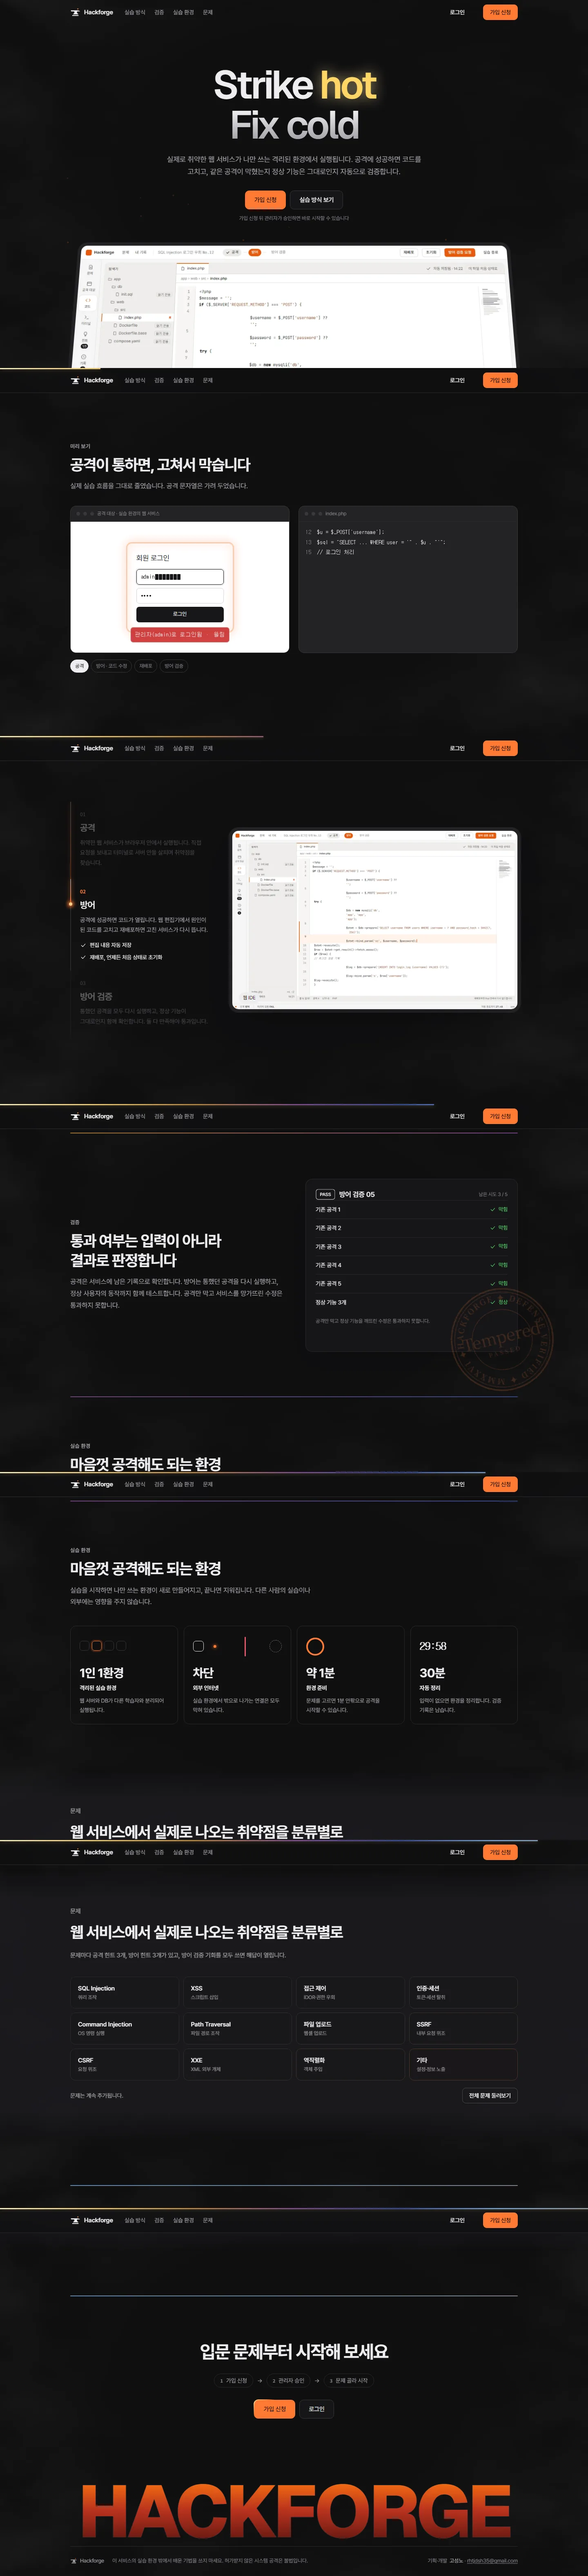
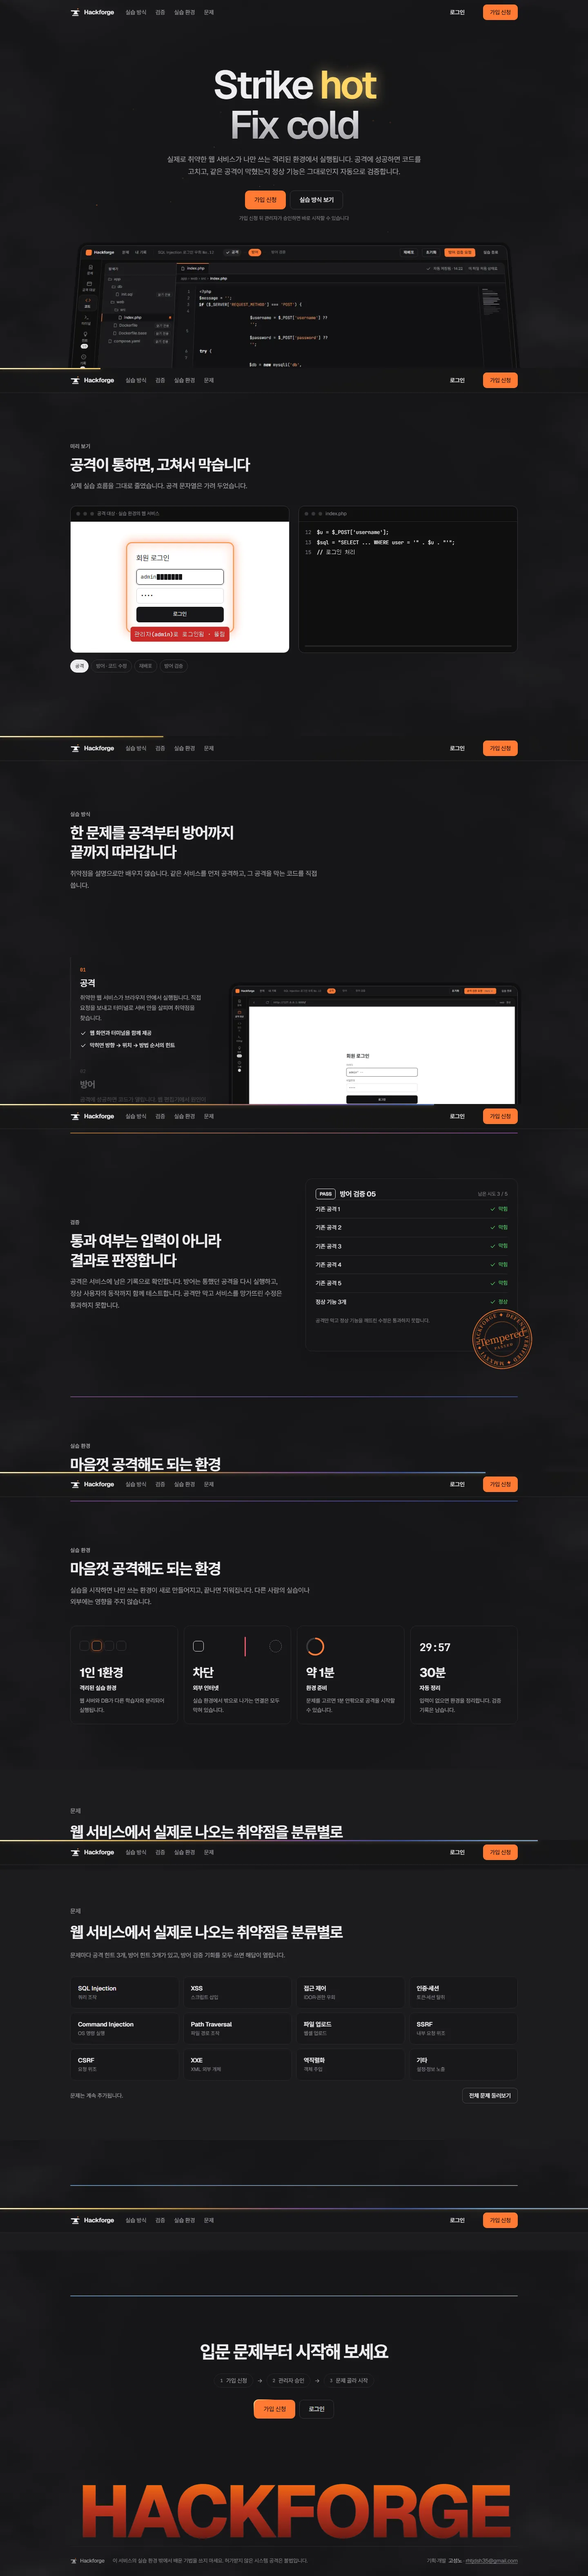
feat: 소개 화면을 확정 다크 시안대로(다크만, Geist + Pretendard)
시안 바탕(--bg)을 앱 페이지 바탕에 잘못 이어서 한 단계 어두웠고, 라이트 연기 결과 반투명 타일이 시안과 달랐다.

diff --git a/src/pages/landing.css b/src/pages/landing.css
@@ -12,10 +12,17 @@
   --t3: var(--subtle-foreground);
   --hair: var(--border);
   --hair2: var(--input);
-  --s1: var(--muted);
+  --s1: var(--background);
   --s2: var(--muted);
   --acc: var(--primary);
-  --bg: var(--background);
+  --bg: var(--card);
+  /* 소개 화면은 다크만(뿌리에 .dark를 붙여 앱 다크 토큰을 쓴다). 바탕은 시안의 --bg */
+  isolation: isolate;
+  min-height: 100dvh;
+  background: var(--bg);
+  color-scheme: dark;
+  /* 영문은 헤드라인과 같은 Geist, 한글은 앱 글꼴(Pretendard). 2026-11-26 후보 6개 비교 뒤 결정 */
+  font-family: var(--font-display);
   font-size: 15px;
   line-height: 1.6;
   letter-spacing: -0.01em;
@@ -197,7 +204,9 @@
   font-size: 13px;
 }
 .lp .row code {
-  font: 12.5px 'JetBrains Mono';
+  font:
+    12.5px 'JetBrains Mono Variable',
+    monospace;
   background: var(--s1);
   padding: 2px 7px;
   border-radius: 5px;
@@ -262,7 +271,9 @@
   grid-row: 1/3;
   grid-column: 2;
   align-self: center;
-  font: 500 20px 'JetBrains Mono';
+  font:
+    500 20px 'JetBrains Mono Variable',
+    monospace;
   font-style: normal;
   color: var(--primary-foreground);
 }
@@ -295,7 +306,9 @@
   border-radius: 999px;
 }
 .lp .flow span b {
-  font: 600 11px 'JetBrains Mono';
+  font:
+    600 11px 'JetBrains Mono Variable',
+    monospace;
   color: var(--t3);
 }
 .lp .smog {
@@ -552,7 +565,7 @@
   align-items: center;
   padding: 0 10px;
   font:
-    13px 'JetBrains Mono',
+    13px 'JetBrains Mono Variable',
     monospace;
   margin-bottom: 8px;
   gap: 1px;
@@ -648,7 +661,7 @@
 .lp .code {
   flex: 1;
   font:
-    12.5px/1.95 'JetBrains Mono',
+    12.5px/1.95 'JetBrains Mono Variable',
     monospace;
   padding: 14px 0;
 }
@@ -726,7 +739,7 @@
 .lp .stage-tag span.on {
   background: var(--t1);
   border-color: var(--t1);
-  color: var(--background);
+  color: var(--bg);
 }
 .lp .wm {
   position: relative;
@@ -774,7 +787,7 @@
     backdrop-filter 0.3s;
 }
 .lp .topbar.scrolled {
-  background: color-mix(in srgb, var(--background) 72%, transparent);
+  background: color-mix(in srgb, var(--bg) 72%, transparent);
   -webkit-backdrop-filter: blur(12px);
   backdrop-filter: blur(12px);
   border-color: var(--hair);
@@ -1123,7 +1136,7 @@
   left: 0;
   top: 10px;
   font:
-    600 26px 'JetBrains Mono',
+    600 26px 'JetBrains Mono Variable',
     monospace;
   letter-spacing: -0.02em;
 }
@@ -1431,7 +1444,9 @@
   background: var(--t1);
 }
 .lp .stp .n {
-  font: 500 12px 'JetBrains Mono';
+  font:
+    500 12px 'JetBrains Mono Variable',
+    monospace;
   color: var(--t3);
 }
 .lp .stp h3 {
@@ -1798,7 +1813,7 @@
   font-family: var(--font-display), sans-serif;
 }
 .lp .shot::after {
-  background: linear-gradient(transparent, var(--background));
+  background: linear-gradient(transparent, var(--bg));
 }
 /* 제품 화면: 시안의 iframe 대신 확정 캡처(1440×900)의 위쪽을 보인다 */
 .lp .shot img,
@@ -1820,28 +1835,16 @@
   background: var(--band);
   color: var(--band-foreground);
 }
-.dark .lp .dark-band {
-  background: color-mix(in srgb, var(--band) 80%, transparent);
-  -webkit-mask-image: linear-gradient(transparent, #000 70px, #000 calc(100% - 70px), transparent);
-  mask-image: linear-gradient(transparent, #000 70px, #000 calc(100% - 70px), transparent);
-}
 .lp .dark-band .k,
 .lp .dark-band p.d,
 .lp .dark-band .more {
-  color: color-mix(in srgb, var(--band-foreground) 62%, transparent);
+  color: var(--muted-foreground);
 }
 .lp .h2d {
   font-size: 38px;
   font-weight: 700;
   letter-spacing: -0.035em;
   margin: 10px 0 14px;
-}
-.lp .ct {
-  border-color: color-mix(in srgb, var(--band-foreground) 12%, transparent);
-  background: color-mix(in srgb, var(--band-foreground) 4%, transparent);
-}
-.lp .ct span {
-  color: color-mix(in srgb, var(--band-foreground) 52%, transparent);
 }
 .lp .more {
   display: flex;
@@ -1877,10 +1880,6 @@
 .lp .credit a {
   text-decoration: underline;
   text-underline-offset: 2px;
-}
-html:not(.dark) .lp .smog.s2 {
-  mix-blend-mode: multiply;
-  opacity: 0.08;
 }
 /* 스크립트가 돌지 않으면(효과 실패) 처음 숨겨 둔 것도 다 보인다 */
 .lp:not(.js) .rv,

diff --git a/src/pages/landing-page.tsx b/src/pages/landing-page.tsx
@@ -5,31 +5,22 @@ import { MenuIcon } from 'lucide-react'
 import { useEffect, useRef, type CSSProperties } from 'react'
 import { Link } from 'react-router'
 
-import labCodeDark from '../../design/screens/lab-code-dark.webp'
-import labCodeLight from '../../design/screens/lab-code-light.webp'
-import labRecordsDark from '../../design/screens/lab-records-dark.webp'
-import labRecordsLight from '../../design/screens/lab-records-light.webp'
-import labTargetDark from '../../design/screens/lab-target-dark.webp'
-import labTargetLight from '../../design/screens/lab-target-light.webp'
+import labCode from '../../design/screens/lab-code-dark.webp'
+import labRecords from '../../design/screens/lab-records-dark.webp'
+import labTarget from '../../design/screens/lab-target-dark.webp'
 import { LogoMark } from '@/components/logo'
 import { startLandingEffects } from '@/pages/landing-effects'
 
-/** 제품 화면은 확정 캡처(design/screens)를 테마에 맞춰 보여 준다(시안은 iframe) */
+/** 제품 화면은 확정 캡처(design/screens)의 다크 화면(시안은 iframe) */
 const SCREENS = {
-  code: { light: labCodeLight, dark: labCodeDark, alt: '방어 단계의 코드 편집기 화면' },
-  target: { light: labTargetLight, dark: labTargetDark, alt: '공격 대상 화면' },
-  records: { light: labRecordsLight, dark: labRecordsDark, alt: '방어 검증 결과 기록 화면' },
+  code: { src: labCode, alt: '방어 단계의 코드 편집기 화면' },
+  target: { src: labTarget, alt: '공격 대상 화면' },
+  records: { src: labRecords, alt: '방어 검증 결과 기록 화면' },
 }
 
 function Screen({ name, eager }: { name: keyof typeof SCREENS; eager?: boolean }) {
   const s = SCREENS[name]
-  const loading = eager ? 'eager' : 'lazy'
-  return (
-    <>
-      <img src={s.light} alt={s.alt} loading={loading} className="dark:hidden" />
-      <img src={s.dark} alt={s.alt} loading={loading} className="hidden dark:block" />
-    </>
-  )
+  return <img src={s.src} alt={s.alt} loading={eager ? 'eager' : 'lazy'} />
 }
 
 const Check = () => (
@@ -121,14 +112,15 @@ const delay = (s: number, i?: number) =>
 /**
  * `/` 로그인 전 소개 화면(hackforge-docs ADR 016, specs/landing). 구간 순서: 첫 화면, 미리 보기, 실습 방식, 검증,
  * 실습 환경, 문제, 마무리, 쇳물 글자, 맨 아래 줄. 반응형(1024px, 640px). 시연에 실제 공격 문자열은 쓰지 않는다.
- * 효과는 시안 스크립트를 옮긴 startLandingEffects가 붙이고, 화면을 떠나면 모두 걷어 낸다
+ * 효과는 시안 스크립트를 옮긴 startLandingEffects가 붙이고, 화면을 떠나면 모두 걷어 낸다.
+ * 앱 테마와 상관없이 다크로만 보인다(뿌리의 dark class로 앱 다크 토큰을 쓴다)
  */
 export function LandingPage() {
   const root = useRef<HTMLDivElement>(null)
   useEffect(() => startLandingEffects(root.current!), [])
 
   return (
-    <div className="lp" ref={root}>
+    <div className="lp dark" ref={root}>
       <div className="smog s2" aria-hidden>
         <svg preserveAspectRatio="none" viewBox="0 0 800 400">
           <filter id="smk">

diff --git a/src/pages/landing-effects.ts b/src/pages/landing-effects.ts
@@ -19,23 +19,16 @@ const ROWS: [string, boolean][] = [
   ['정상 기능 3개', true],
 ]
 
-/** 달군 쇠 색: 1 흰빛 → 노랑 → 주황 → 체리빛 → 0 식음. 라이트는 흰 바탕에서 보이도록 주황까지만 */
-const RAMP_DARK: [number, number[]][] = [
+/** 달군 쇠 색: 1 흰빛 → 노랑 → 주황 → 체리빛 → 0 식음 */
+const RAMP: [number, number[]][] = [
   [0, [74, 64, 62]],
   [0.3, [200, 50, 30]],
   [0.55, [255, 122, 26]],
   [0.8, [255, 210, 90]],
   [1, [255, 246, 213]],
 ]
-const RAMP_LIGHT: [number, number[]][] = [
-  [0, [74, 64, 62]],
-  [0.35, [180, 43, 26]],
-  [0.7, [232, 89, 12]],
-  [1, [247, 137, 31]],
-]
 
 const clamp = (v: number) => Math.max(0, Math.min(1, v))
-const isDark = () => document.documentElement.classList.contains('dark')
 
 export function startLandingEffects(root: HTMLElement): () => void {
   // 효과에 필요한 브라우저 기능이 없으면(테스트의 jsdom 등) 효과 없이 끝난 모습을 둔다
@@ -204,7 +197,7 @@ export function startLandingEffects(root: HTMLElement): () => void {
   let beatHeat = 0
   const REST = 0.82
   function heatColor(h: number) {
-    const ramp = isDark() ? RAMP_DARK : RAMP_LIGHT
+    const ramp = RAMP
     for (let i = 1; i < ramp.length; i++) {
       if (h <= ramp[i][0]) {
         const [a, ca] = ramp[i - 1]
@@ -327,13 +320,12 @@ export function startLandingEffects(root: HTMLElement): () => void {
       ctx.clearRect(0, 0, W, H)
       if (heat <= 0) return
       const c = rgb()
-      const dark = isDark()
       for (const p of ps) {
         p.y -= p.v
         p.w += 0.02
         p.x += Math.sin(p.w) * 0.35 * dpr
         p.t++
-        const a = (dark ? 0.7 : 0.4) * heat * clamp(p.y / H) * (0.6 + 0.4 * Math.sin(p.t * 0.15))
+        const a = 0.7 * heat * clamp(p.y / H) * (0.6 + 0.4 * Math.sin(p.t * 0.15))
         ctx.beginPath()
         ctx.fillStyle = `rgba(${c},${a})`
         ctx.shadowColor = `rgba(${c},${a})`

diff --git a/DESIGN.md b/DESIGN.md
@@ -159,8 +159,8 @@ components:
 ## Typography
 
 **본문 글꼴:** Pretendard Variable (시스템 글꼴로 대체)
-**소개 화면 영어 헤드라인:** Geist (글꼴 파일은 소개 화면을 만들 때 추가하고, 그 전에는 Pretendard로 대체. 토큰 `font-display`)
-**코드:** JetBrains Mono
+**소개 화면 글꼴:** 영문 Geist, 한글 Pretendard. 헤드라인과 본문 모두(토큰 `font-display`, 파일은 소개 화면에서만 불러온다)
+**코드:** JetBrains Mono (파일은 `src/index.css`가 불러온다. 편집기·터미널은 `src/lib/code-font.ts`의 `CODE_FONT`를 쓰고, 글꼴 파일이 늦게 오면 글자 폭을 다시 잰다)
 
 **Character:** 한글 본문은 Pretendard로 단정하게, 영어 헤드라인은 Geist로 단단하게 쓴다. 글자 간격은 큰 글씨일수록 좁힌다.
 
@@ -212,7 +212,9 @@ components:
 
 ### 소개 화면 (로그인 전, 반응형)
 - 구간 순서: 첫 화면, 미리 보기, 실습 방식, 검증, 실습 환경, 문제, 마무리, 쇳물 글자, 맨 아래 줄
-- 캡처: 첫 화면 `design/screens/landing-*`(시안), 구간별 화면 `landing-desktop-*`(1440px, 효과가 끝난 뒤 7장), 페이지 전체 `landing-mobile-*`(390px). 제품 화면은 확정 캡처 `lab-*`를 테마에 맞춰 쓴다
+- 다크만 있다. 앱 테마와 상관없이 확정 시안(`.impeccable/mocks/decision/colors/final-dark-landing-01.html`)대로 다크로 보인다(2026-11-26 사람이 결정). 뿌리에 `dark` class를 붙여 앱 다크 토큰을 쓰고, 바탕은 면 색(`card`)이다
+- 글꼴: 영문은 Geist, 한글은 Pretendard(`font-display`). 2026-11-26 후보 6개(Pretendard, Inter + Noto Sans KR, Geist + Pretendard, SUIT, Wanted Sans, IBM Plex Sans KR)를 같은 구간에서 비교해 사람이 정했다
+- 캡처: 첫 화면 `design/screens/landing-dark`(시안), 구간별 화면 `landing-desktop-dark`(1440px, 효과가 끝난 뒤 7장), 페이지 전체 `landing-mobile-dark`(390px). 제품 화면은 확정 캡처 `lab-*-dark`를 쓴다
 - 코드: 시안의 CSS·스크립트를 `src/pages/landing.css`, `landing-effects.ts`로 옮겼다. 시안 class 중 Tailwind 유틸리티와 이름이 같은 것(outline, ring)은 Tailwind 스타일이 덧붙어 이름을 바꿨다. 새 class를 더할 때도 Tailwind 유틸리티 이름을 피한다
 - 상단 줄은 앱 상단 줄 대신 소개 화면 것(로고, 구간 메뉴, 로그인, 가입 신청. 640px 이하는 메뉴 버튼). 맨 아래 줄에 개발자 이름과 연락처, HTML `meta author`(hackforge-docs ADR 016)
 - 본문 최대 폭 1160px(안쪽 1096px). 구간 사이 110px, 태블릿 84px, 휴대폰 64px. 구간 구분선은 앞뒤 구간과 같은 간격 가운데에 둔다
